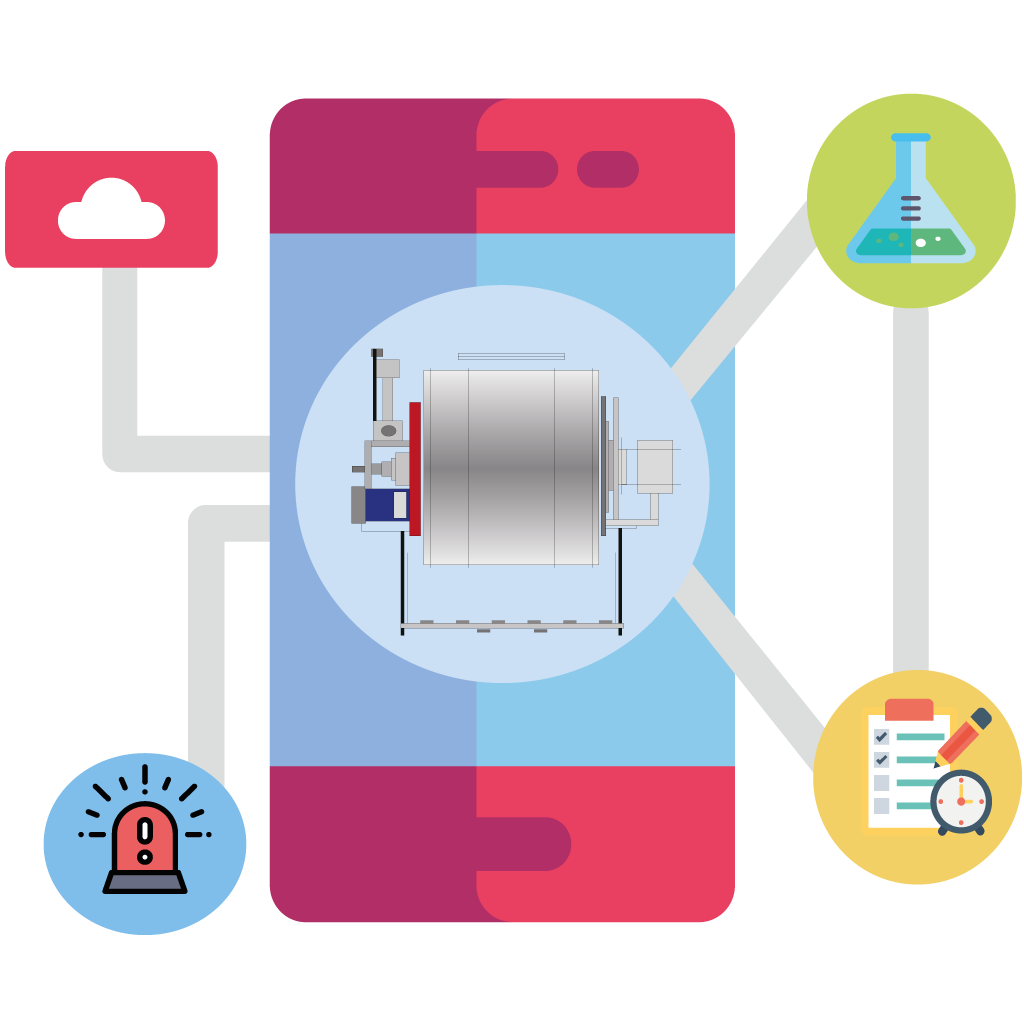
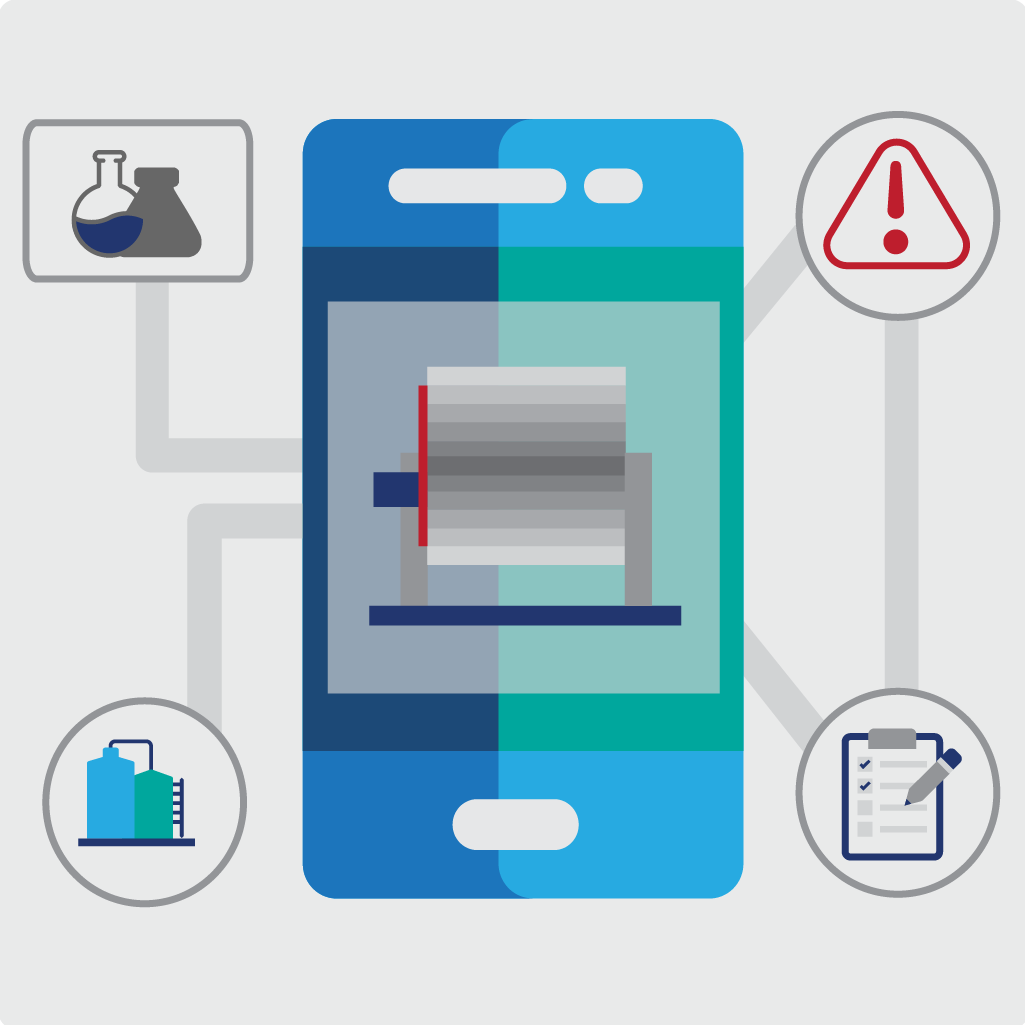
aggiornamento temi

diff --git a/src/app/members/drums/drums.page.html b/src/app/members/drums/drums.page.html
@@ -7,17 +7,15 @@
   </ion-toolbar>
 </ion-header>
 
-<ion-content>
+<ion-content class=" background-content">
    <!-- <canvas id="renderCanvas"></canvas>-->
     
-  <ion-list lines="none">
-    <ion-item *ngFor="let drum of drumdata; let i= index;trackBy: trackByDrum;">
-      <ion-card style="width: 100%;">
+  <ion-list class="background-content" lines="none">
+    <ion-item  class="background-content" *ngFor="let drum of drumdata; let i= index;trackBy: trackByDrum;">
+      <ion-card style="width: 100%;--background: white;">
        
         <ion-card-header no-padding class="ion-text-center drum-header">DRUM {{drum.NOME}} 
-          
-         
-        </ion-card-header>
+      </ion-card-header>
         
         <div class="item-content" style="width: 100%;padding: 0!important;">
           <ion-grid>
@@ -41,13 +39,10 @@
                 </div>
                 
                 <div>
-                    <ion-icon (click)="goToODP($event,drum)"  style="margin-top: 50px; font-size: 27px;margin-left: -15px;" name="paper"></ion-icon>
-         
-          
-
+                    <ion-icon (click)="goToODP($event,drum)"  style="position: absolute;bottom: 15px;font-size: 7vw;" name="paper"></ion-icon>
                 </div>
               </ion-col>
-              <ion-col style="padding-left:10px;" class="ion-text-end" size="3">
+              <ion-col style="padding-left:15px;" class="ion-text-end" size="3">
                 <ion-row style="padding: 2px;">
                 {{drum.ID_ODP}}
                 </ion-row>

diff --git a/src/app/members/storage/storage.page.html b/src/app/members/storage/storage.page.html
@@ -14,17 +14,17 @@
   </ion-toolbar>
 </ion-header>
 
-<ion-content padding>
-  <ion-list lines="none">
+<ion-content class="background-content" padding>
+  <ion-list  class="background-content" slines="none">
 
     
 
       <ion-grid no-padding>
         <ion-row no-padding>
           <ion-col  *ngFor="let tank of tanksdata; let i= index; trackBy: trackByTank;" (click)="goToTank($event,tank)" no-padding size="6">
-            <ion-card>
+            <ion-card style="background: white;">
               <ion-card-header no-padding class="ion-text-center drum-header">TANK {{tank.NOME}}</ion-card-header>
-              <div class="item-content" style="width: 100%;padding: 0!important;">
+              <div class="item-content" style="width: 100%;padding: 0!important;text-align: center">
 
                   <svg version="1.1" id="Livello_1" xmlns="http://www.w3.org/2000/svg"
                   xmlns:xlink="http://www.w3.org/1999/xlink" x="0px" y="0px" width="118px" height="140px" 
@@ -144,8 +144,6 @@
   
                 </svg>
   
-                <i class="fa fa-arrow-down" aria-hidden="true"></i>
-
               </div>
             </ion-card>
           </ion-col>

diff --git a/src/app/members/odp/odp.page.html b/src/app/members/odp/odp.page.html
@@ -18,16 +18,16 @@
   <ion-grid>
     <ion-row style="font-size: 12px;border-bottom: solid 2px;border-color:darkslateblue; ">
       <ion-col size="2"><b>PASSO</b></ion-col>
-      <ion-col size="4"><b>DESCRIZIONE</b></ion-col>
+      <ion-col size="3"><b>DESCRIZ.</b></ion-col>
       <ion-col size="2"><b>RPM</b></ion-col>
       <ion-col size="3"><b>PRODOTTO</b></ion-col>  
-      <ion-col size="1"><b>WT C°</b></ion-col>
+      <ion-col size="2"><b>WT C°</b></ion-col>
     </ion-row>
     <ion-row [ngClass]="drum.PASSO==line.PASSO ? 'highlighted':''" *ngFor="let line of odp; let i= index;" style="border-bottom: solid 1px;border-color:grey;" >
       <ion-col size="2">
         {{line.PASSO}}
       </ion-col>
-      <ion-col size="4">
+      <ion-col size="3">
         {{line.DESCRIZIONE}}
       </ion-col>
       <ion-col size="2">
@@ -36,7 +36,7 @@
       <ion-col size="3">
         {{line.PRODOTTO}}
       </ion-col>
-      <ion-col size="1">
+      <ion-col size="2">
         {{line.ACQUA_TEMP}}
       </ion-col>
     </ion-row>

diff --git a/src/service-worker.js b/src/service-worker.js
@@ -1,0 +1,31 @@
+/**
+ * Check out https://googlechromelabs.github.io/sw-toolbox/ for
+ * more info on how to use sw-toolbox to custom configure your service worker.
+ */
+
+
+'use strict';
+importScripts('./build/sw-toolbox.js');
+
+self.toolbox.options.cache = {
+  name: 'ionic-cache'
+};
+
+// pre-cache our key assets
+self.toolbox.precache(
+  [
+    './build/main.js',
+    './build/vendor.js',
+    './build/main.css',
+    './build/polyfills.js',
+    'index.html',
+    'manifest.json'
+  ]
+);
+
+// dynamically cache any other local assets
+self.toolbox.router.any('/*', self.toolbox.fastest);
+
+// for any other requests go to the network, cache,
+// and then only use that cached resource if your user goes offline
+self.toolbox.router.default = self.toolbox.networkFirst;

diff --git a/src/app/app.scss b/src/app/app.scss
@@ -78,6 +78,7 @@ overflow-y: auto;
 
 }
 .background-content{
+--background: #e2e2e2 !important;
 background: #e2e2e2 !important;
 }
 * {
@@ -273,9 +274,9 @@ ion-segment{
   color: #929292 !important;
   background-color: transparent;
 }
-.profile-segment.segment-button.segment-activated{
-  background-color:transparent !important;
-  color: #3A57C4 !important;
+.profile-segment.segment-button-checked{
+  --background-color:transparent !important;
+  --color: #3A57C4 !important;
   border-bottom: 2px solid #3a57c4 !important;
   text-transform: none;
 }
@@ -461,7 +462,7 @@ z-index: 10;
 height: 60px;
 }
 .notificationIcon{
-font-size: 2.4rem;
+font-size: 2rem;
 color: #fff;
 position: relative;
 }

diff --git a/src/index.html b/src/index.html
@@ -11,7 +11,12 @@
   <meta name="format-detection" content="telephone=no" />
   <meta name="msapplication-tap-highlight" content="no" />
 
-  <link rel="icon" type="image/png" href="assets/icon/favicon.png" />
+  <link href="assets/css/animate.min.css" rel="stylesheet">
+  <link rel="icon" type="image/x-icon" href="assets/icon/favicon.ico">
+  <link rel="stylesheet" href="assets/fontawesome/css/font-awesome.css">
+  <link rel="stylesheet" href="assets/fontawesome/css/font-awesome.min.css">
+  <link rel="manifest" href="manifest.json">
+  <meta name="theme-color" content="#4e8ef7">
 
   <!-- add to homescreen for ios -->
   <meta name="apple-mobile-web-app-capable" content="yes" />
